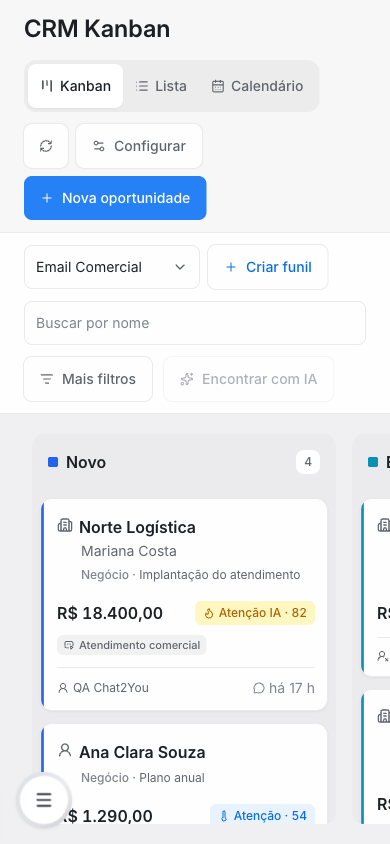
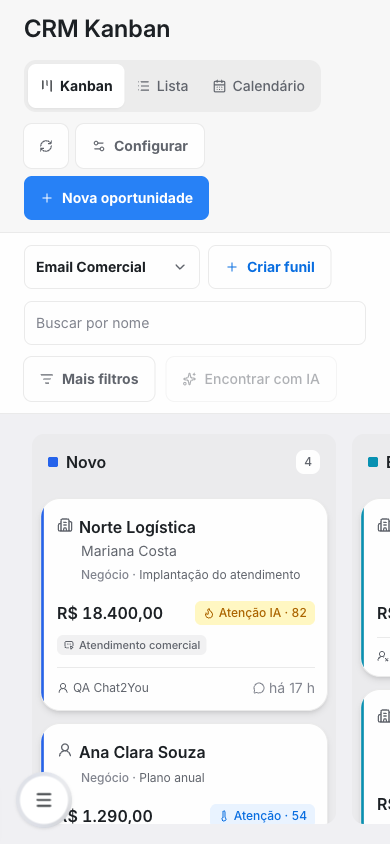
fix(crm): soften cards and emphasize board controls

diff --git a/app/javascript/dashboard/routes/dashboard/crm/pages/CrmKanbanPage.vue b/app/javascript/dashboard/routes/dashboard/crm/pages/CrmKanbanPage.vue
@@ -1944,7 +1944,7 @@ onUnmounted(() => {
             class="inline-flex min-h-11 items-center gap-1.5 rounded-lg px-3 text-sm font-medium text-n-slate-11 transition-colors hover:bg-n-alpha-2 hover:text-n-slate-12 focus-visible:outline focus-visible:outline-2 focus-visible:outline-n-brand"
             :class="
               viewMode === mode.id
-                ? 'bg-n-surface-2 text-n-slate-12 shadow-sm'
+                ? '!font-bold bg-n-surface-2 text-n-slate-12 shadow-sm'
                 : ''
             "
             :aria-pressed="viewMode === mode.id"
@@ -1972,7 +1972,7 @@ onUnmounted(() => {
           :label="t('CRM_KANBAN.ACTIONS.NEW_CARD')"
           icon="i-lucide-plus"
           :disabled="!hasPipelines || isLoading"
-          class="order-2 !rounded-lg min-h-11"
+          class="order-2 !rounded-lg min-h-11 !font-bold"
           @click="openCreateDrawer"
         />
         <Button
@@ -2000,7 +2000,7 @@ onUnmounted(() => {
               icon="i-lucide-settings-2"
               slate
               outline
-              class="!rounded-lg min-h-11 !outline-n-weak bg-n-surface-1"
+              class="!rounded-lg min-h-11 !font-bold !outline-n-weak bg-n-surface-1"
             />
           </template>
           <template #content>
@@ -2066,7 +2066,7 @@ onUnmounted(() => {
             :options="pipelineOptions"
             :aria-label="t('CRM_KANBAN.FILTERS.PIPELINE')"
             :disabled="!hasPipelines"
-            class="w-44 sm:w-52 [&>button]:!min-h-11 [&>button]:!rounded-lg [&>button]:!bg-n-surface-1"
+            class="w-44 sm:w-52 [&>button]:!min-h-11 [&>button]:!rounded-lg [&>button]:!bg-n-surface-1 [&>button]:!font-bold"
           />
           <Button
             v-if="canManagePipelines"
@@ -2074,7 +2074,7 @@ onUnmounted(() => {
             icon="i-lucide-plus"
             blue
             outline
-            class="!rounded-lg min-h-11 !outline-n-weak bg-n-surface-1"
+            class="!rounded-lg min-h-11 !border !border-solid !border-n-weak !font-bold !outline-transparent bg-n-surface-1 focus-visible:ring-2 focus-visible:ring-n-brand"
             :disabled="isLoading"
             @click="openCreatePipelineDrawer"
           />
@@ -2098,7 +2098,7 @@ onUnmounted(() => {
           icon="i-lucide-list-filter"
           slate
           outline
-          class="!rounded-lg min-h-11 !outline-n-weak bg-n-surface-1"
+          class="!rounded-lg min-h-11 !font-bold !outline-n-weak bg-n-surface-1"
           :aria-expanded="showFiltersDrawer"
           @click="showFiltersDrawer = true"
         />

diff --git a/app/javascript/dashboard/routes/dashboard/crm/components/CrmKanbanCard.vue b/app/javascript/dashboard/routes/dashboard/crm/components/CrmKanbanCard.vue
@@ -321,12 +321,12 @@ const canOpenConversation = computed(
 
 <template>
   <div
-    class="group/card relative w-full shrink-0 overflow-hidden rounded-xl border border-n-weak bg-n-surface-1 py-3 ps-4 pe-3 text-start shadow-sm transition-colors hover:border-n-slate-7"
+    class="group/card relative w-full shrink-0 overflow-hidden rounded-[1.25rem] border border-n-weak bg-n-surface-1 py-3 ps-4 pe-3 text-start shadow-md transition-shadow hover:shadow-lg"
   >
     <!-- Stage accent rail (inline :style per repo precedent; slate fallback,
          dark ring guards pale colors on dark surfaces) -->
     <span
-      class="absolute inset-y-0 start-0 w-[0.188rem] rounded-s-xl ring-1 ring-inset ring-n-alpha-1 dark:ring-n-alpha-2"
+      class="absolute inset-y-0 start-0 w-[0.188rem] rounded-s-[1.25rem] ring-1 ring-inset ring-n-alpha-1 dark:ring-n-alpha-2"
       :style="railStyle"
     />
 
@@ -338,7 +338,7 @@ const canOpenConversation = computed(
          action. The last-message bubble stops propagation to branch off. -->
     <button
       type="button"
-      class="absolute inset-0 z-0 cursor-pointer rounded-lg focus-visible:outline focus-visible:outline-2 focus-visible:-outline-offset-2 focus-visible:outline-n-brand"
+      class="absolute inset-0 z-0 cursor-pointer rounded-[1.25rem] focus-visible:outline focus-visible:outline-2 focus-visible:-outline-offset-2 focus-visible:outline-n-brand"
       tabindex="-1"
       aria-hidden="true"
       @click="$emit('open', card)"

diff --git a/docs/audit/2026-10-02-crm-835-ui-polish.md b/docs/audit/2026-10-02-crm-835-ui-polish.md
@@ -42,3 +42,13 @@ Aplicação real local, banco sintético separado, sem dados de clientes. O resu
 ## Aprovação, entrega e rollback
 
 PR corretiva deve permanecer em rascunho até aprovação visual do Rodrigo. Não foi autorizado merge ou deploy nesta entrega. Depois da aprovação: conferir CI/revisão da PR, integrar e seguir o fluxo de release existente, com smoke test de Kanban, filtros, card, handoff, funil e Calendário. Sem migrações, rollback consiste em restaurar a release anterior pelo processo existente; não foi realizado deploy nem rollback nesta execução.
+
+## Ajuste final solicitado após a galeria
+
+Rodrigo aprovou o restante das telas e solicitou cantos mais arredondados, elevação suave, borda explícita em Criar funil e negrito em Configurar, Nova oportunidade, Mais filtros, Criar funil, nome do funil e visualização selecionada.
+
+Ajuste restrito a CrmKanbanCard.vue e CrmKanbanPage.vue: raio de 1,25 rem, sombra média com realce suave no hover, borda sólida leve em Criar funil e peso 700 nos textos indicados. Não há mudança funcional.
+
+Validação: duas suítes reexecutadas (card e página), 26 testes aprovados e zero falhas; ESLint sem erros, Prettier aprovado e diff sem erro. No navegador, estilos computados confirmaram raio de 20 px, borda sólida de 1 px em Criar funil e peso 700 nos seis controles solicitados. Lista e Calendário também foram selecionados e conferidos com peso 700. Mobile com viewport e largura da página de 390 px, sem overflow externo. Capturas principais de Kanban, Lista, Calendário e mobile atualizadas; detalhe do card adicionado. Total: 23 capturas.
+
+O produto permanece em ambiente local com dados fictícios. A aprovação do restante das telas foi registrada; o ajuste final foi apresentado em nova captura real. Merge e deploy não foram executados.

diff --git a/docs/crm/835/README.md b/docs/crm/835/README.md
@@ -1,6 +1,6 @@
 # CRM — telas reais para aprovação
 
-22 capturas do produto real, executado localmente em `http://127.0.0.1:3835/app/accounts/1/crm`. Dados fictícios. A tela de Conversas usa um resumo fictício pré-carregado; nenhum modelo foi chamado. Handoff e automações são apresentados também em estados de edição não salvos.
+23 capturas do produto real, executado localmente em `http://127.0.0.1:3835/app/accounts/1/crm`. Dados fictícios. A tela de Conversas usa um resumo fictício pré-carregado; nenhum modelo foi chamado. Handoff e automações são apresentados também em estados de edição não salvos.
 
 Merge e deploy aguardam aprovação.
 
@@ -91,3 +91,7 @@ Merge e deploy aguardam aprovação.
 ## 22. Mais filtros — mobile
 
 ![Mais filtros — mobile](filters-mobile.png)
+
+## 23. Acabamento final do card
+
+![Cantos arredondados e elevação suave](card-rounded-detail.png)
